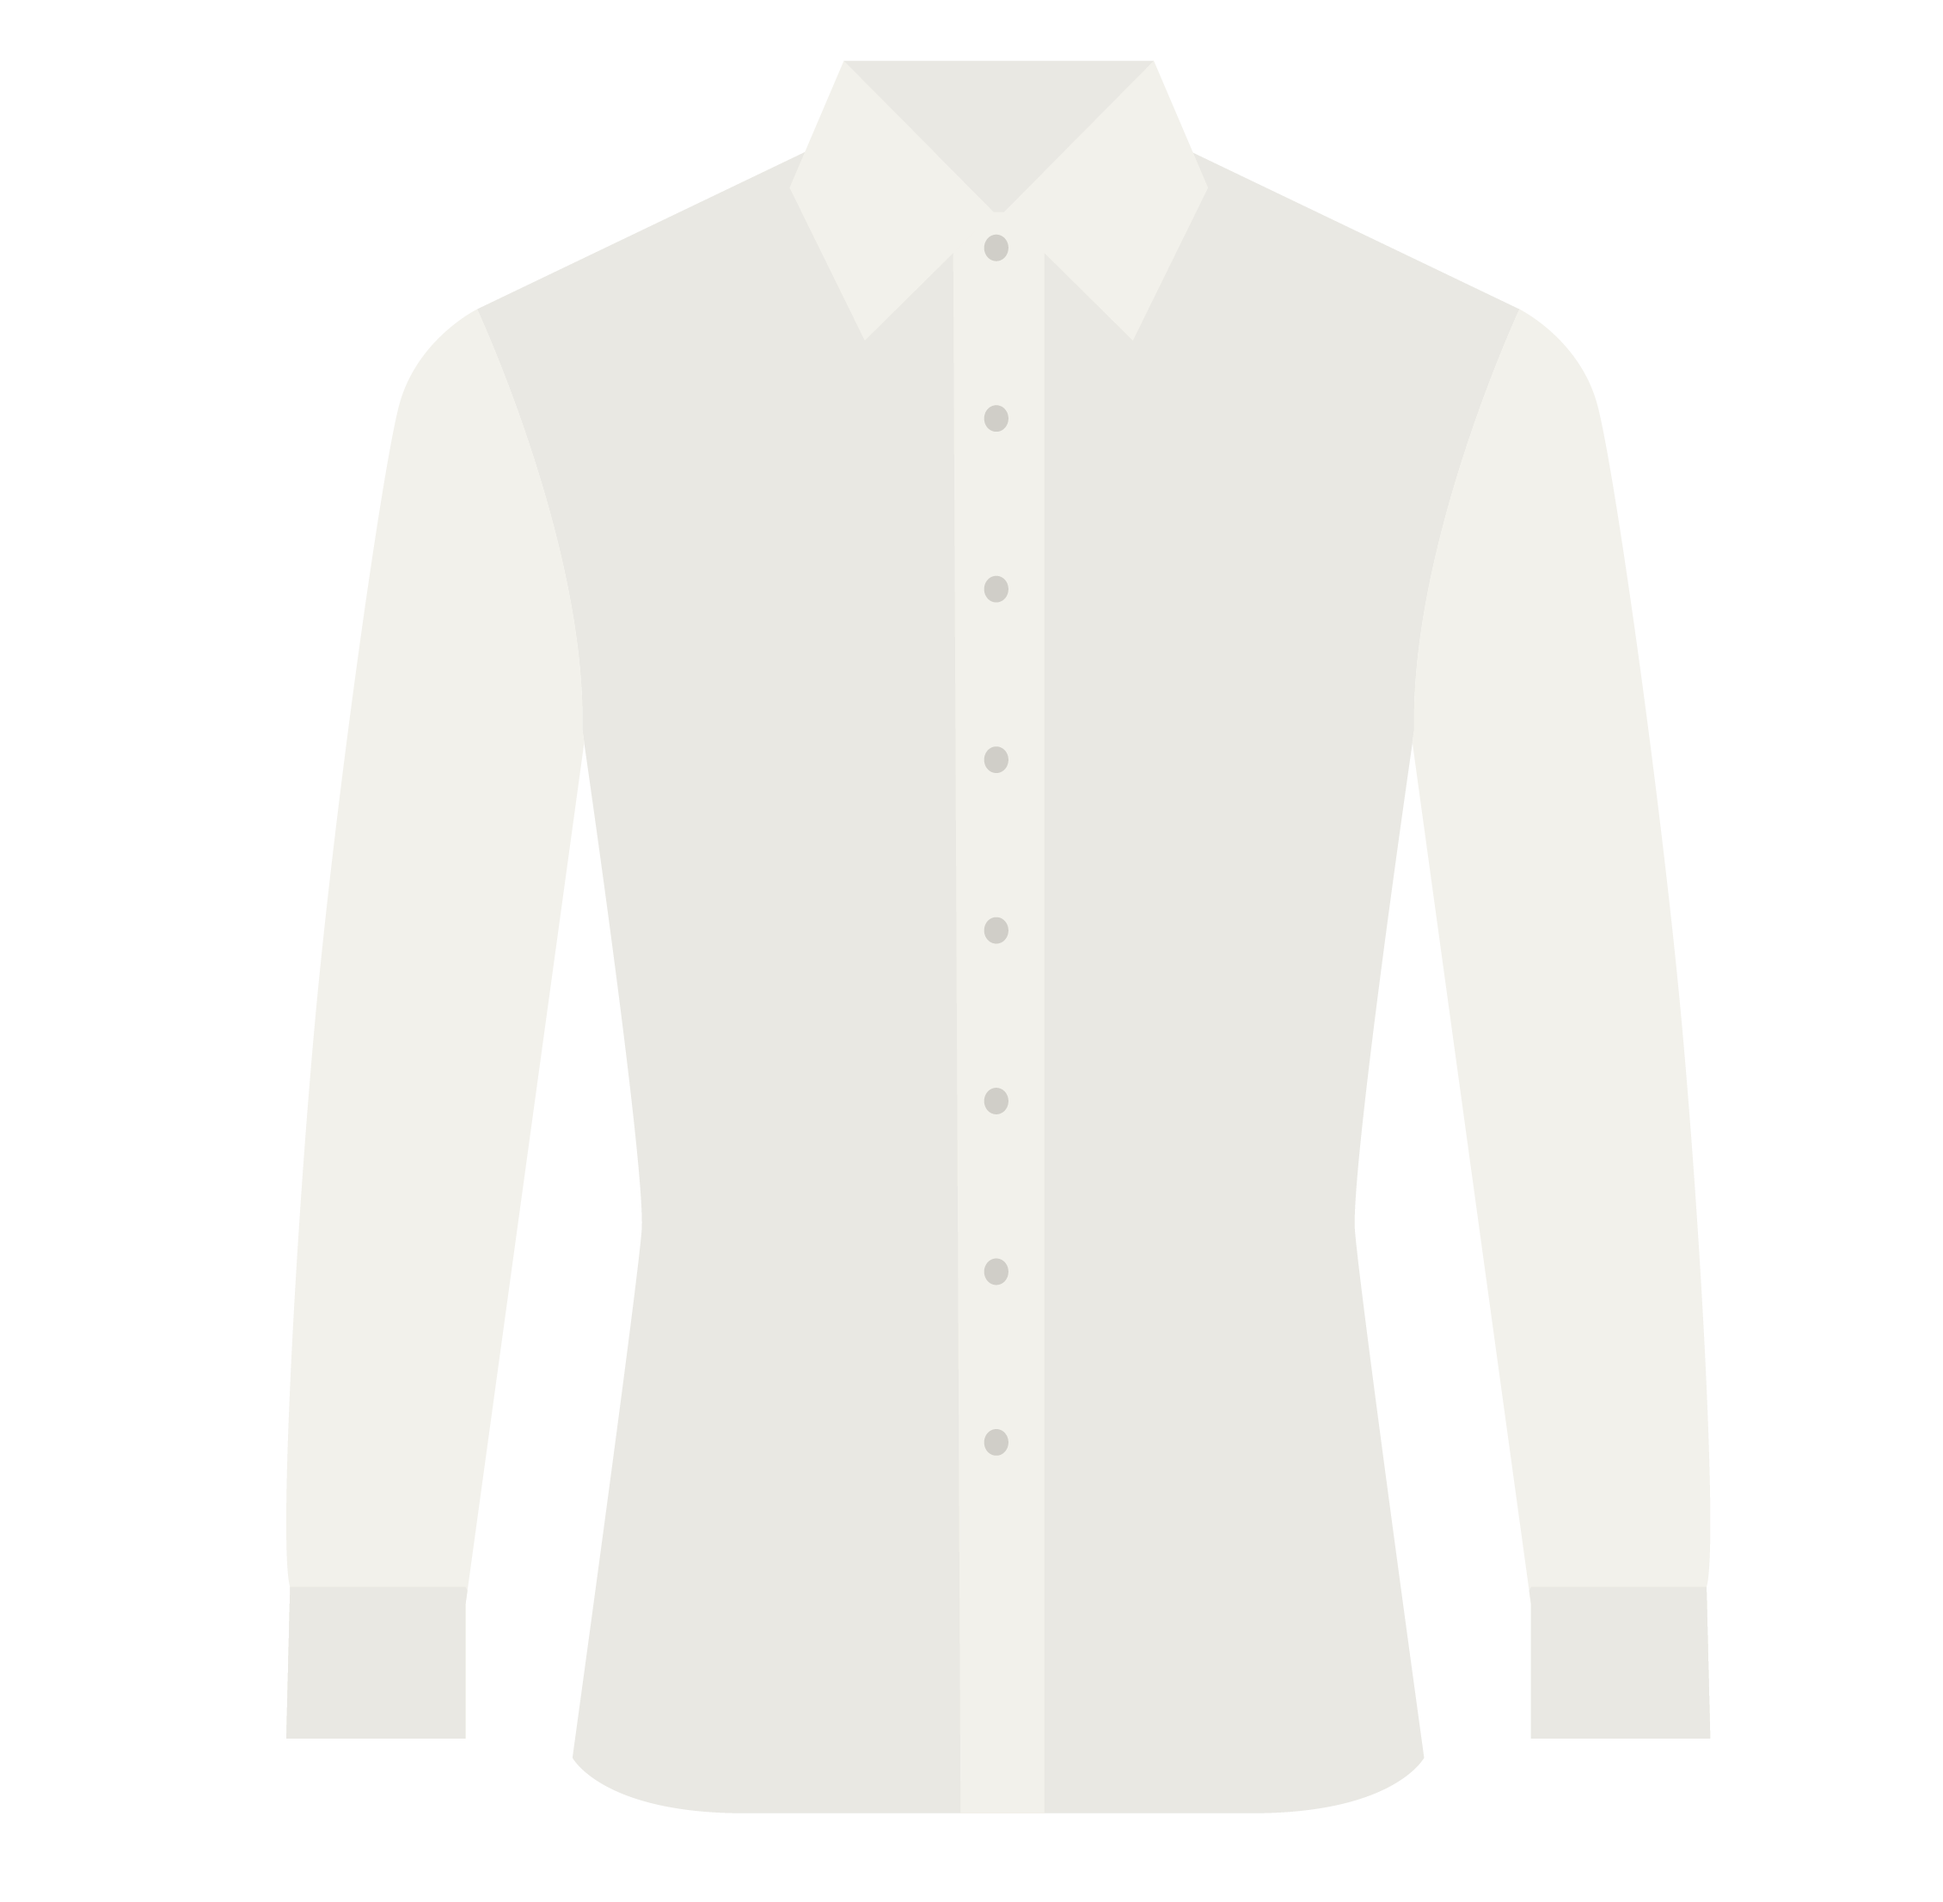
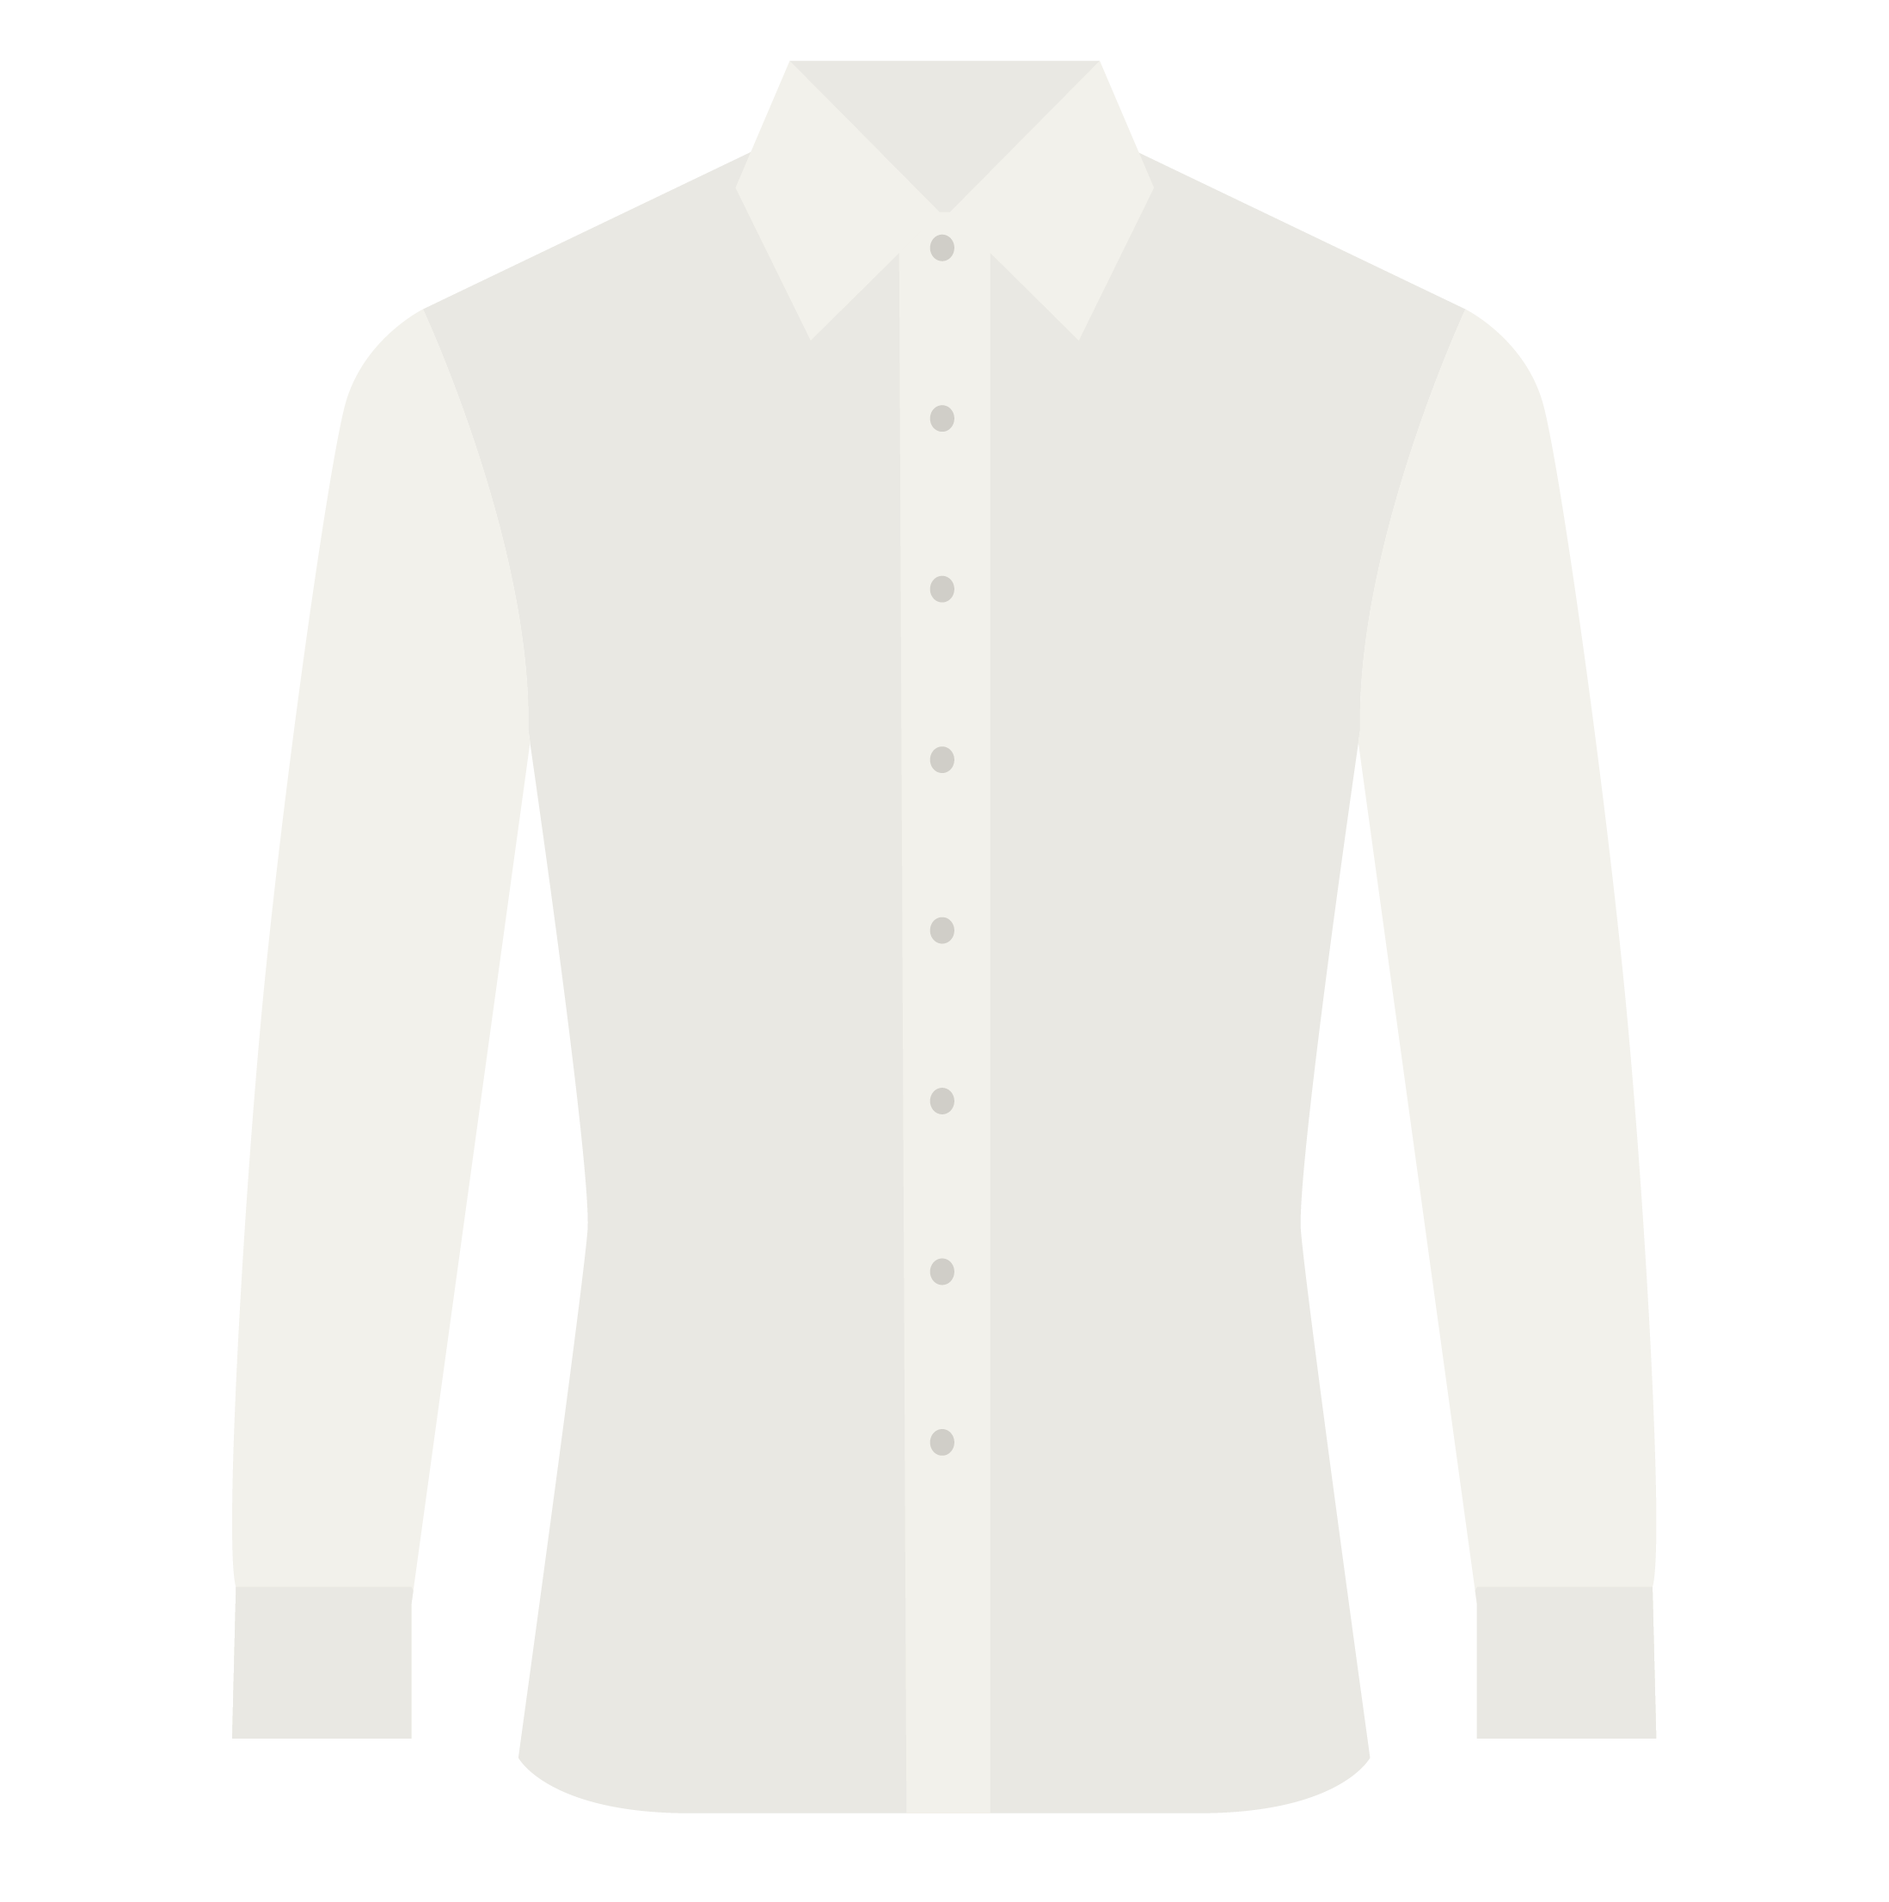
Fixed Carousel, fixed .png,

diff --git a/led-wear/src/views/main.jsx b/led-wear/src/views/main.jsx
@@ -156,90 +156,103 @@ function watchColorPicker(event) {
 class Main extends Component {
   constructor(props) {
     super(props);
-    this.shirt = React.createRef();
+
+
+    this.handleSubmit = this.handleSubmit.bind(this);
     this.init = this.init.bind(this);
+    this.init();
   }
 
   init() {
     //enableForm();
-    let shirt = document.getElementById("shirt");
-    let form = document.getElementById("main-form");
-    saveValue("ledColor", inputs.value);
-    let colorPickers = positions.map(position => {
-      console.log(position);
-      let colorPicker = document.createElement("input");
-      colorPicker.type = "color";
-      colorPicker.addEventListener("change", watchColorPicker, false);
-      colorPicker.addEventListener("input", function() {
-        saveValue("ledColor", inputs.value);
-      });
-      form.addEventListener("submit", send);
-      colorPicker.style.left = position.x * 100 + "%";
-      colorPicker.style.top = `${position.y * 100}%`;
-      colorPicker.name = `${position.name}`;
-      colorPicker.title = `${position.name}`;
-      colorPicker.value = `${position.value}`;
-      shirt.appendChild(colorPicker);
-      return colorPicker;
-    });
+  }
 
-    console.log("COLOR PICKERS:", colorPickers);
+  handleSubmit(event) {
+    event.preventDefault();
+    const data = new FormData(event.target);
+
+    fetch( /*address*/'', {
+      method: 'POST',
+      body: data
+    } ).then( response  => {console.log(response.data)} )
   }
 
   render() {
     return (
-      <React.Fragment>
-        <Form className="mainForm" id="main-form">
-          <Animations />
+        <React.Fragment>
+          <Form className="mainForm" id="main-form" onSubmit={this.handleSubmit}>
+            <Animations />
 
-          <Carousel>
-            <Carousel.Item>
-              <div
-                className="shirt"
-                id="shirt"
-                style={backgroundImage}
-                ref={this.init}
-              ></div>
-            </Carousel.Item>
-            <Carousel.Item>
-              <div
-                className="shirt"
-                id="shirt"
-                style={backgroundImage}
-                ref={this.init}
-              ></div>
-            </Carousel.Item>
-            <Carousel.Item>
-              <div
-                className="shirt"
-                id="shirt"
-                style={backgroundImage}
-                ref={this.init}
-              ></div>
-            </Carousel.Item>
-            <Carousel.Item>
-              <div
-                className="shirt"
-                id="shirt"
-                style={backgroundImage}
-                ref={this.init}
-              ></div>
-            </Carousel.Item>
-          </Carousel>
-          <div className="submit__div container">
-            <Button
-              className="submit__button"
-              type="submit"
-              id="submit-button"
-              size="lg"
-              block
-            >
-              Send
-            </Button>
-          </div>
-        </Form>
-      </React.Fragment>
+            <Carousel interval={null}>
+              <Carousel.Item><Shirt key="shirt_1" id="shirt_1" /></Carousel.Item>
+              <Carousel.Item><Shirt key="shirt_2" id="shirt_2" /></Carousel.Item>
+              <Carousel.Item><Shirt key="shirt_3" id="shirt_3" /></Carousel.Item>
+              <Carousel.Item><Shirt key="shirt_4" id="shirt_4" /></Carousel.Item>
+            </Carousel>
+            <div className="submit__div container">
+              <Button
+                  className="submit__button"
+                  type="submit"
+                  id="submit-button"
+                  size="lg"
+                  block
+              >
+                Send
+              </Button>
+            </div>
+          </Form>
+        </React.Fragment>
     );
+  }
+}
+
+class Shirt extends React.Component {
+  constructor(props) {
+    super(props);
+
+    this.colorPickers = [];
+
+    for( let position in positions ) {
+      let colorpicker_id = this.props.id + "_" + position;
+      this.colorPickers.push( <ColorInput
+          className="led-button"
+          title={positions[position].name}
+          style={{
+            top: (positions[position].y * 100) + "%",
+            left: (positions[position].x * 100) + "%"
+          }}
+          defaultValue={positions[position].value}
+          id={colorpicker_id}
+          key={colorpicker_id}
+      ></ColorInput> );
+    }
+  }
+
+  render() {
+    return (
+        <div
+            className="shirt"
+            id={this.props.id}
+            style={backgroundImage}
+            ref={this.shirt}
+        >
+          {this.colorPickers}
+        </div> );
+  }
+}
+
+class ColorInput extends React.Component {
+  render() {
+    return <Form.Control
+        type="color"
+        className={this.props.className}
+        title={this.props.title}
+        style={this.props.style}
+        defaultValue={this.props.defaultValue}
+        id={this.props.id}
+        onChange={watchColorPicker}
+        onInput={saveValue("ledColor", this.value)}
+    />;
   }
 }
 

diff --git a/led-wear/src/views/main.scss b/led-wear/src/views/main.scss
@@ -1,13 +1,22 @@
 @import "../assets/variables.scss";
 
-#shirt {
-  height: 80vh;
+.shirt {
+  height: 0;
+  padding: 20.4% 0;
+  width: 41.25vw;
+  margin: 0 auto;
   position: relative;
   background-repeat: no-repeat;
   background-position: center;
   background-size: contain;
   & input {
     position: absolute;
+
+    &.led-button {
+      width: 2.3vw;
+      height: 2.3vw;
+      padding: 0px;
+    }
   }
 }
 
